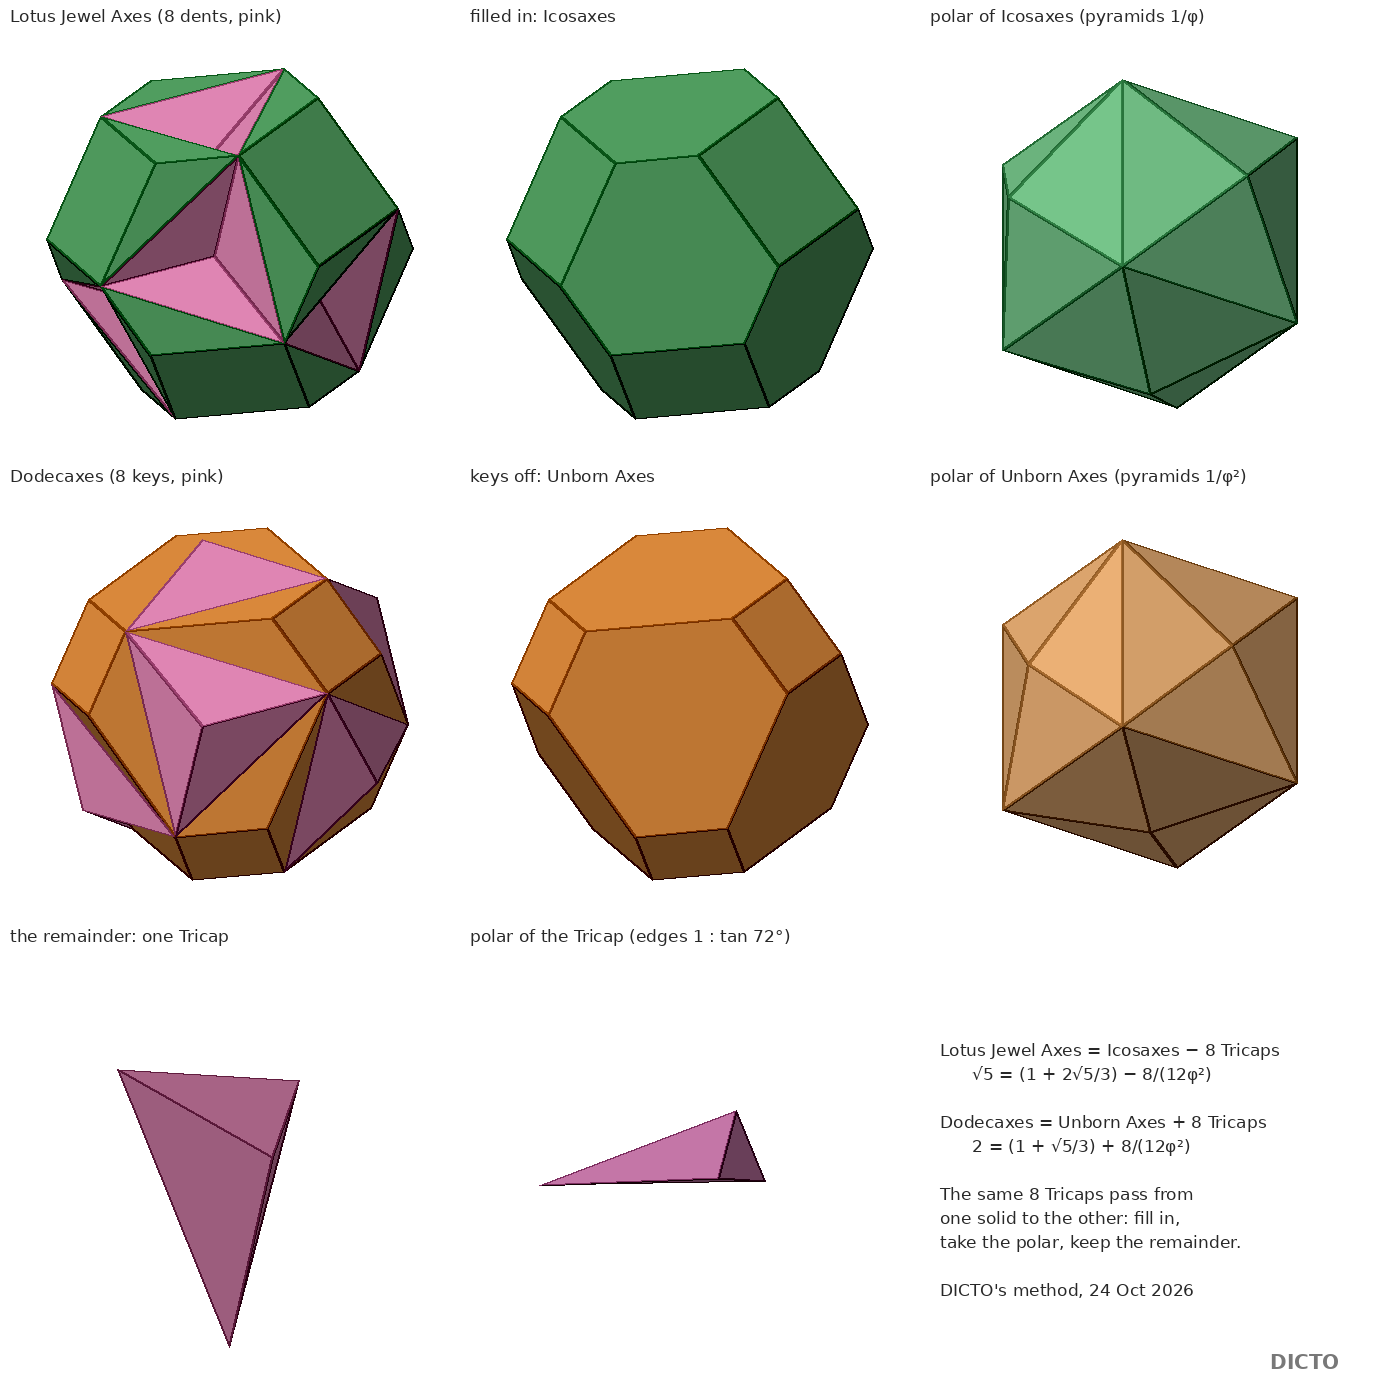
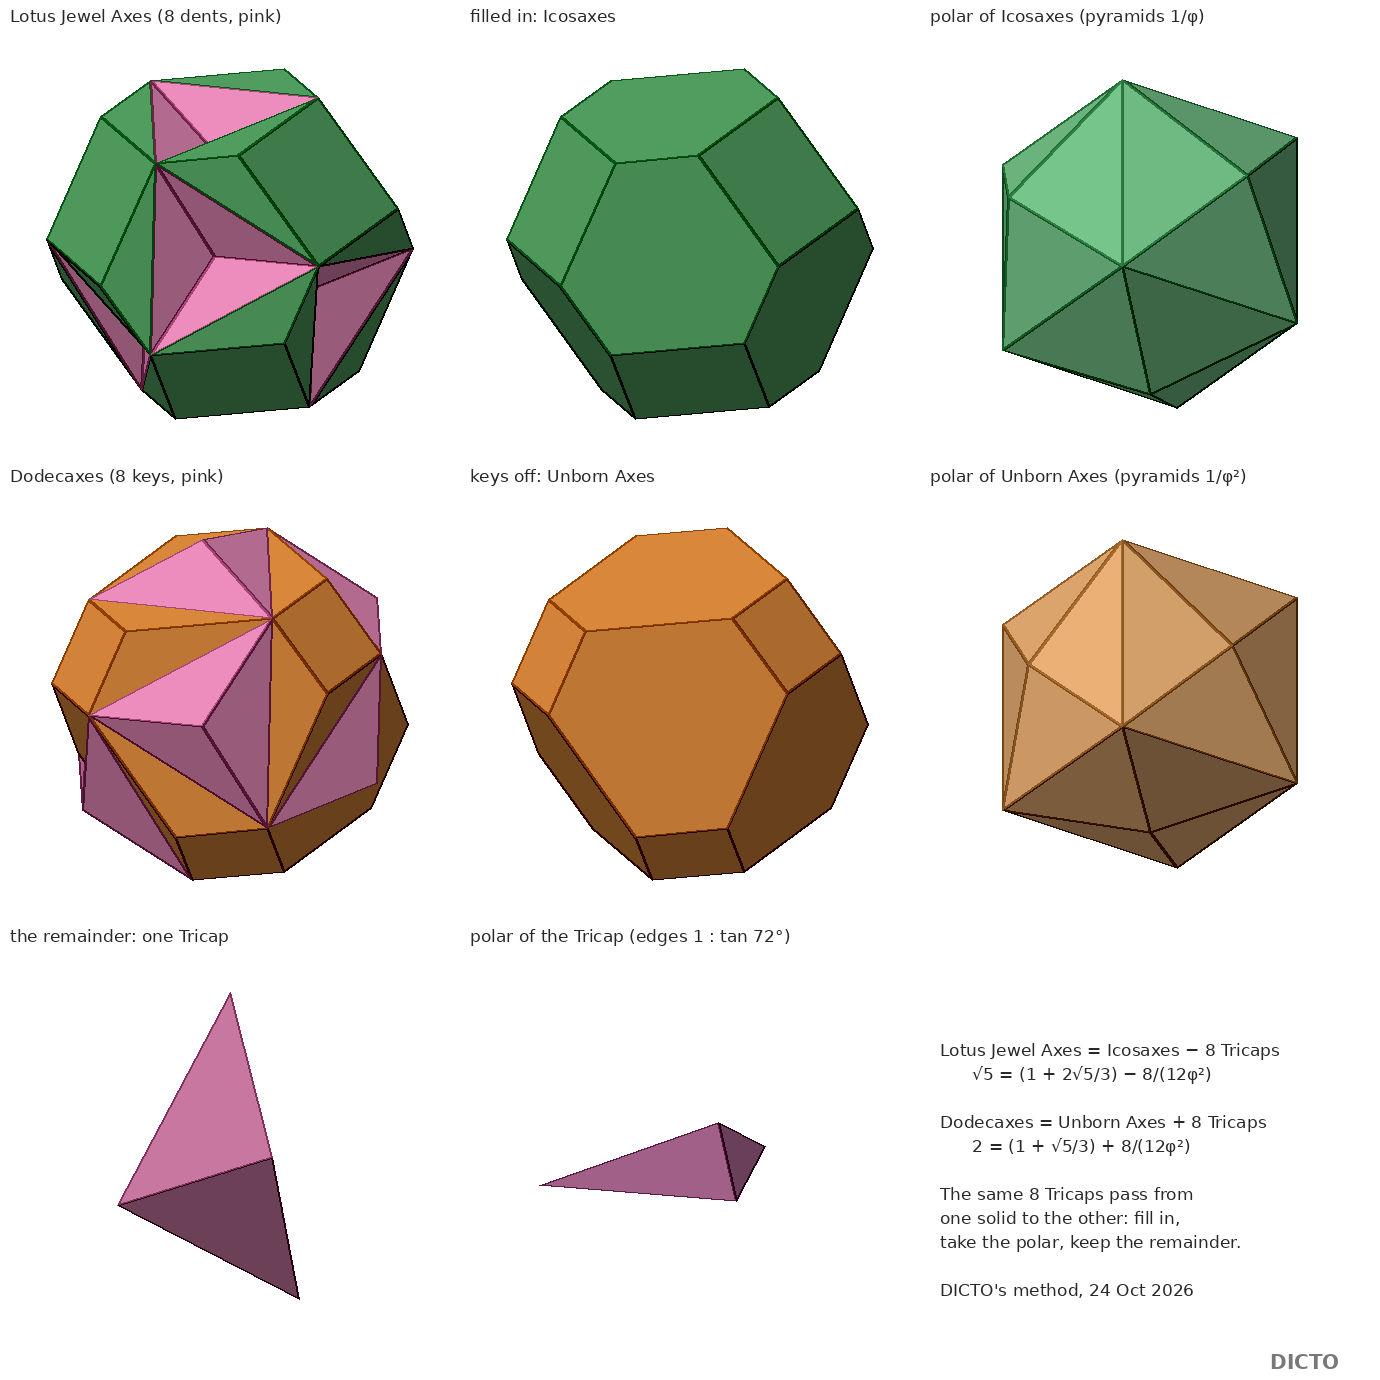
Keyed pair hull-and-remainder polar (DICTO's method): exact proof, 15 checks ALL PASS (Tricap 1/(12φ²), dents in the icosahedron, keys on the Unborn Axes, √5 and 2, polar heights 1/φ and 1/φ², tan 72°); picture corrected (Tricaps were mirrored)

diff --git a/studies/2026-10-23-shadow-forms/polar/keyed_polar_exact.py b/studies/2026-10-23-shadow-forms/polar/keyed_polar_exact.py
@@ -1,0 +1,105 @@
+# Keyed pair as golden pair ± 8 Tricaps, and the hull-and-remainder polar (DICTO's method, 10-24), exact in Q(√5).
+# Frame of #48 (icosahedron edge 1 at the origin, lattice spacing φ, Unborn centred at UC = (φ/2)(1,1,1)); reuses golden_split_exact.py.
+import sys, os
+from itertools import product, combinations
+from fractions import Fraction as Fr
+sys.path.insert(0, os.path.join(os.path.dirname(os.path.abspath(__file__)), '..', 'exact'))
+src = open(os.path.join(os.path.dirname(os.path.abspath(__file__)), '..', 'exact', 'golden_split_exact.py')).read()
+exec(src.split("print('AXEs generated:'")[0])
+exec('def hull_facets' + src.split('def hull_facets')[1].split('def poly_volume')[0])      # the exact hull-facet finder of #48              # Q5, PHI, IPHI, H, ICO, UNB, UC, helpers, check
+ok_all = True
+def say(label, ok):
+    global ok_all; ok_all &= bool(ok); print(('PASS ' if ok else 'FAIL ') + label)
+def perms(a, b):
+    S = set()
+    for p in set(__import__('itertools').permutations((0, 1, 2))):
+        for sg in product((1, -1), repeat=3):
+            v = [Z, Z, Z]; vals = (a, b, Z)
+            for k in range(3): v[p[k]] = vals[k] * sg[k]
+            S.add(tuple(v))
+    return sorted(S, key=lambda v: tuple(float(x) for x in v))
+ICOSAXES = perms(HALF, H)                         # all perms of (±1/2, ±φ/2, 0)
+UNBAXES = [add(UC, q) for q in perms(IPHI * HALF, H)]   # all perms of (±1/(2φ), ±φ/2, 0) about UC
+# The Tricap of the Unborn at UC in direction s: apex UC + s/2, base UC + the 3 dodecahedron neighbours of that corner (edge 1/φ)
+def tricap(s):
+    sx, sy, sz = s
+    ap = add(UC, (HALF * sx, HALF * sy, HALF * sz))
+    nb = [add(UC, (H * sx, IPHI * HALF * sy, Z * sz)), add(UC, (Z * sx, H * sy, IPHI * HALF * sz)), add(UC, (IPHI * HALF * sx, Z * sy, H * sz))]   # #48's (cyclic) orientation
+    return [ap] + nb
+TR = [tricap(s) for s in product((1, -1), repeat=3)]
+def vol(P):
+    D = det(sub(P[1], P[0]), sub(P[2], P[0]), sub(P[3], P[0])); return D * Fr(1, 6) if D.sign() >= 0 else D * Fr(-1, 6)
+vt = vol(TR[0])
+say('(1) every Tricap has volume 1/(12φ²) exactly: %s' % vt, all(vol(t) == vt for t in TR) and vt * 12 * PHI * PHI == 1)
+U = set(UNBAXES)
+say('(2a) each Tricap\'s three base corners are corners of the Unborn (so also of the Unborn Axes)', all(all(v in set(UNB) and v in U for v in t[1:]) for t in TR))
+say('(2a\') each Tricap\'s apex is a corner of the cube of the Unborn\'s dodecahedron, (φ/2)(1,1,1) ± 1/2', all(all(x == H + HALF or x == H - HALF for x in t[0]) for t in TR))
+def facets(P):
+    F = hull_facets(P); return [(n, dot(n, P[next(iter(on))])) for on, n in F.items()]
+FU = facets(UNBAXES)
+def on_face_out(t, F):   # base on a facet plane of F, apex strictly outside that plane
+    for n, d in F:
+        if all(dot(n, v) == d for v in t[1:]) and (dot(n, t[0]) - d).sign() > 0: return True
+    return False
+say('(2b) each Tricap stands on a hexagon face of the Unborn Axes, apex outside: a key', all(on_face_out(t, FU) for t in TR))
+# the same Tricaps seen from the icosahedron at the origin: the Unborn at UC*s sends its Tricap in direction -s
+TRI = [[add(mul(Q5(1), v), (Z, Z, Z)) for v in tricap(tuple(-x for x in s))] for s in product((1, -1), repeat=3)]
+TRI = [[add(v, sub(tuple(H * x for x in s), UC)) for v in tricap(tuple(-x for x in s))] for s in product((1, -1), repeat=3)]
+FI = facets(ICO); FX = facets(ICOSAXES)
+inside = lambda v, F: all((dot(n, v) - d).sign() <= 0 for n, d in F)
+say('(2c) the 8 Tricaps facing the origin lie inside the icosahedron, each on one of its faces (corners inside or on it)', all(inside(v, FI) for t in TRI for v in t))
+say('(2d) ... and their bases lie in the hexagon faces of the Icosaxes: dents', all(any(all(dot(n, v) == d for v in t[1:]) for n, d in FX) for t in TRI))
+interiors_disjoint = all(not all((dot(n, sum_c) - d * 4).sign() < 0 for n, d in facets(b)) for a, b in combinations(TRI, 2) for sum_c in [tuple(sum((v[k] for v in a), Z) for k in range(3))])
+say('(2e) the 8 dents are pairwise apart (no Tricap centroid inside another)', interiors_disjoint)
+def tovol(P):
+    F = hull_facets(P); c = P[0]; v = Q5(0)
+    for on, n in F.items():
+        idx = sorted(on, key=lambda i: tuple(float(x) for x in P[i]))
+        # fan the facet: order corners around the facet normal
+        import math
+        cen = [sum(float(P[i][k]) for i in idx) / len(idx) for k in range(3)]
+        nf = [float(x) for x in n]; u = [float(P[idx[0]][k]) - cen[k] for k in range(3)]
+        w = [nf[1]*u[2]-nf[2]*u[1], nf[2]*u[0]-nf[0]*u[2], nf[0]*u[1]-nf[1]*u[0]]
+        idx.sort(key=lambda i: math.atan2(sum((float(P[i][k])-cen[k])*w[k] for k in range(3)), sum((float(P[i][k])-cen[k])*u[k] for k in range(3))))
+        for j in range(1, len(idx) - 1):
+            v = v + det(sub(P[idx[0]], c), sub(P[idx[j]], c), sub(P[idx[j+1]], c)) * Fr(1, 6)
+    return v if v.sign() > 0 else -v
+VI, VU = tovol(ICOSAXES), tovol(UNBAXES)
+say('(3a) Icosaxes volume 1 + 2√5/3 exactly: %s' % VI, VI == Q5(1, Fr(2, 3)))
+say('(3b) Unborn Axes volume 1 + √5/3 exactly: %s' % VU, VU == Q5(1, Fr(1, 3)))
+say('(3c) Lotus Jewel Axes = Icosaxes − 8 Tricaps: volume √5 exactly', VI - vt * 8 == Q5(0, 1))
+say('(3d) Dodecaxes = Unborn Axes + 8 Tricaps: volume 2 exactly', VU + vt * 8 == Q5(2))
+# (4) polars of the golden pair (about each centre): square faces at distance (1+x)s, hexagons at (1+2x)s/√3 -> pyramid height x/(1+x)
+def pyr_height(P, cen):
+    # polar about cen: facet n.x = d gives corner n/(d - n.cen). Square facet n = (a,0,0): apex at |a|/d' on the axis;
+    # hexagon facet n = (±m,±m,±m): polar cube corner, half edge |m|/e'. Height in half cube edges = |a| e' / (d' |m|) - 1.
+    F = [(n, d - dot(n, cen)) for n, d in facets(P)]
+    n, d = [(n, d) for n, d in F if sum(1 for x in n if x != Z) == 1][0]
+    m, e = [(n, d) for n, d in F if sum(1 for x in n if x != Z) == 3][0]
+    a = [x for x in n if x != Z][0]; a = a if a.sign() > 0 else -a; mm = m[0] if m[0].sign() > 0 else -m[0]
+    return a * e, d * mm          # (1 + height) = first / second
+def ratio_eq(num, den, val): return num == den * val
+n1, d1 = pyr_height(ICOSAXES, (Z, Z, Z)); n2, d2 = pyr_height(UNBAXES, UC)
+say('(4a) polar of the Icosaxes: a cube with face pyramids of height 1/φ (in half cube edges)', ratio_eq(n1, d1, Q5(1) + IPHI) and len(facets(ICOSAXES)) == 14)
+say('(4b) polar of the Unborn Axes: pyramids of height 1/φ² ; and 1/φ + 1/φ² = 1 (Kepler\'s rhombic dodecahedron)', ratio_eq(n2, d2, Q5(1) + IPHI * IPHI) and IPHI + IPHI * IPHI == 1 and len(facets(UNBAXES)) == 14)
+# (5) polar of a Tricap about its centroid: corner i = n_i / (d_i - n_i.g); lateral and base edges of the polar
+t = TR[0]; g = tuple(sum((v[k] for v in t), Z) * Fr(1, 4) for k in range(3))
+F5 = facets(t); poles = [mul(Q5(1) * 1, n) for n, d in F5]
+P5 = []
+for n, d in F5:
+    h = d - dot(n, g); P5.append((n, h))
+def dist2(a, b):   # |a/ha - b/hb|^2 compared without dividing: returns numerator/denominator pair is messy; use squared edge via common scaling
+    (na, ha), (nb, hb) = a, b
+    v = sub(mul(hb, na), mul(ha, nb)); return dot(v, v), (ha * hb) * (ha * hb)
+E2 = [dist2(a, b) for a, b in combinations(P5, 2)]
+def eq_ratio(x, y): return x[0] * y[1] == y[0] * x[1]
+groups = []
+for e in E2:
+    for gp in groups:
+        if eq_ratio(gp[0], e): gp.append(e); break
+    else: groups.append([e])
+say('(5a) the Tricap\'s polar is a three-sided pyramid: its 6 edges come in two lengths, 3 and 3', sorted(len(gp) for gp in groups) == [3, 3])
+long_, short = (groups[0][0], groups[1][0]) if float(groups[0][0][0]) / float(groups[0][0][1]) > float(groups[1][0][0]) / float(groups[1][0][1]) else (groups[1][0], groups[0][0])
+# long²/short² = 5 + 2√5 = tan²72°
+say('(5b) long edge : short edge = tan 72°, i.e. squared ratio 5 + 2√5', long_[0] * short[1] == short[0] * long_[1] * Q5(5, 2))
+print('ALL PASS' if ok_all else 'SOME FAIL')

diff --git a/studies/2026-10-23-shadow-forms/polar/keyed_polar1.py b/studies/2026-10-23-shadow-forms/polar/keyed_polar1.py
@@ -10,7 +10,7 @@ ICO = perms(.5, phi/2); UNB = perms(1/(2*phi), phi/2)
 vol = lambda P: ConvexHull(P).volume
 def tricap(sx, sy, sz):   # Tricap of the Unborn Axes at its corner direction (sx,sy,sz), in the Unborn frame
     S = np.diag([sx, sy, sz]); ap = S @ np.array([.5, .5, .5])
-    nb = [S @ np.array(v) for v in [(0, 1/(2*phi), phi/2), (phi/2, 0, 1/(2*phi)), (1/(2*phi), phi/2, 0)]]
+    nb = [S @ np.array(v) for v in [(phi/2, 1/(2*phi), 0), (0, phi/2, 1/(2*phi)), (1/(2*phi), 0, phi/2)]]      # orientation as in paper 48 (fixed 10-24, was mirrored)
     return np.array([ap] + nb)
 TR = [tricap(*s) for s in itertools.product((1, -1), repeat=3)]
 vt = vol(TR[0])
